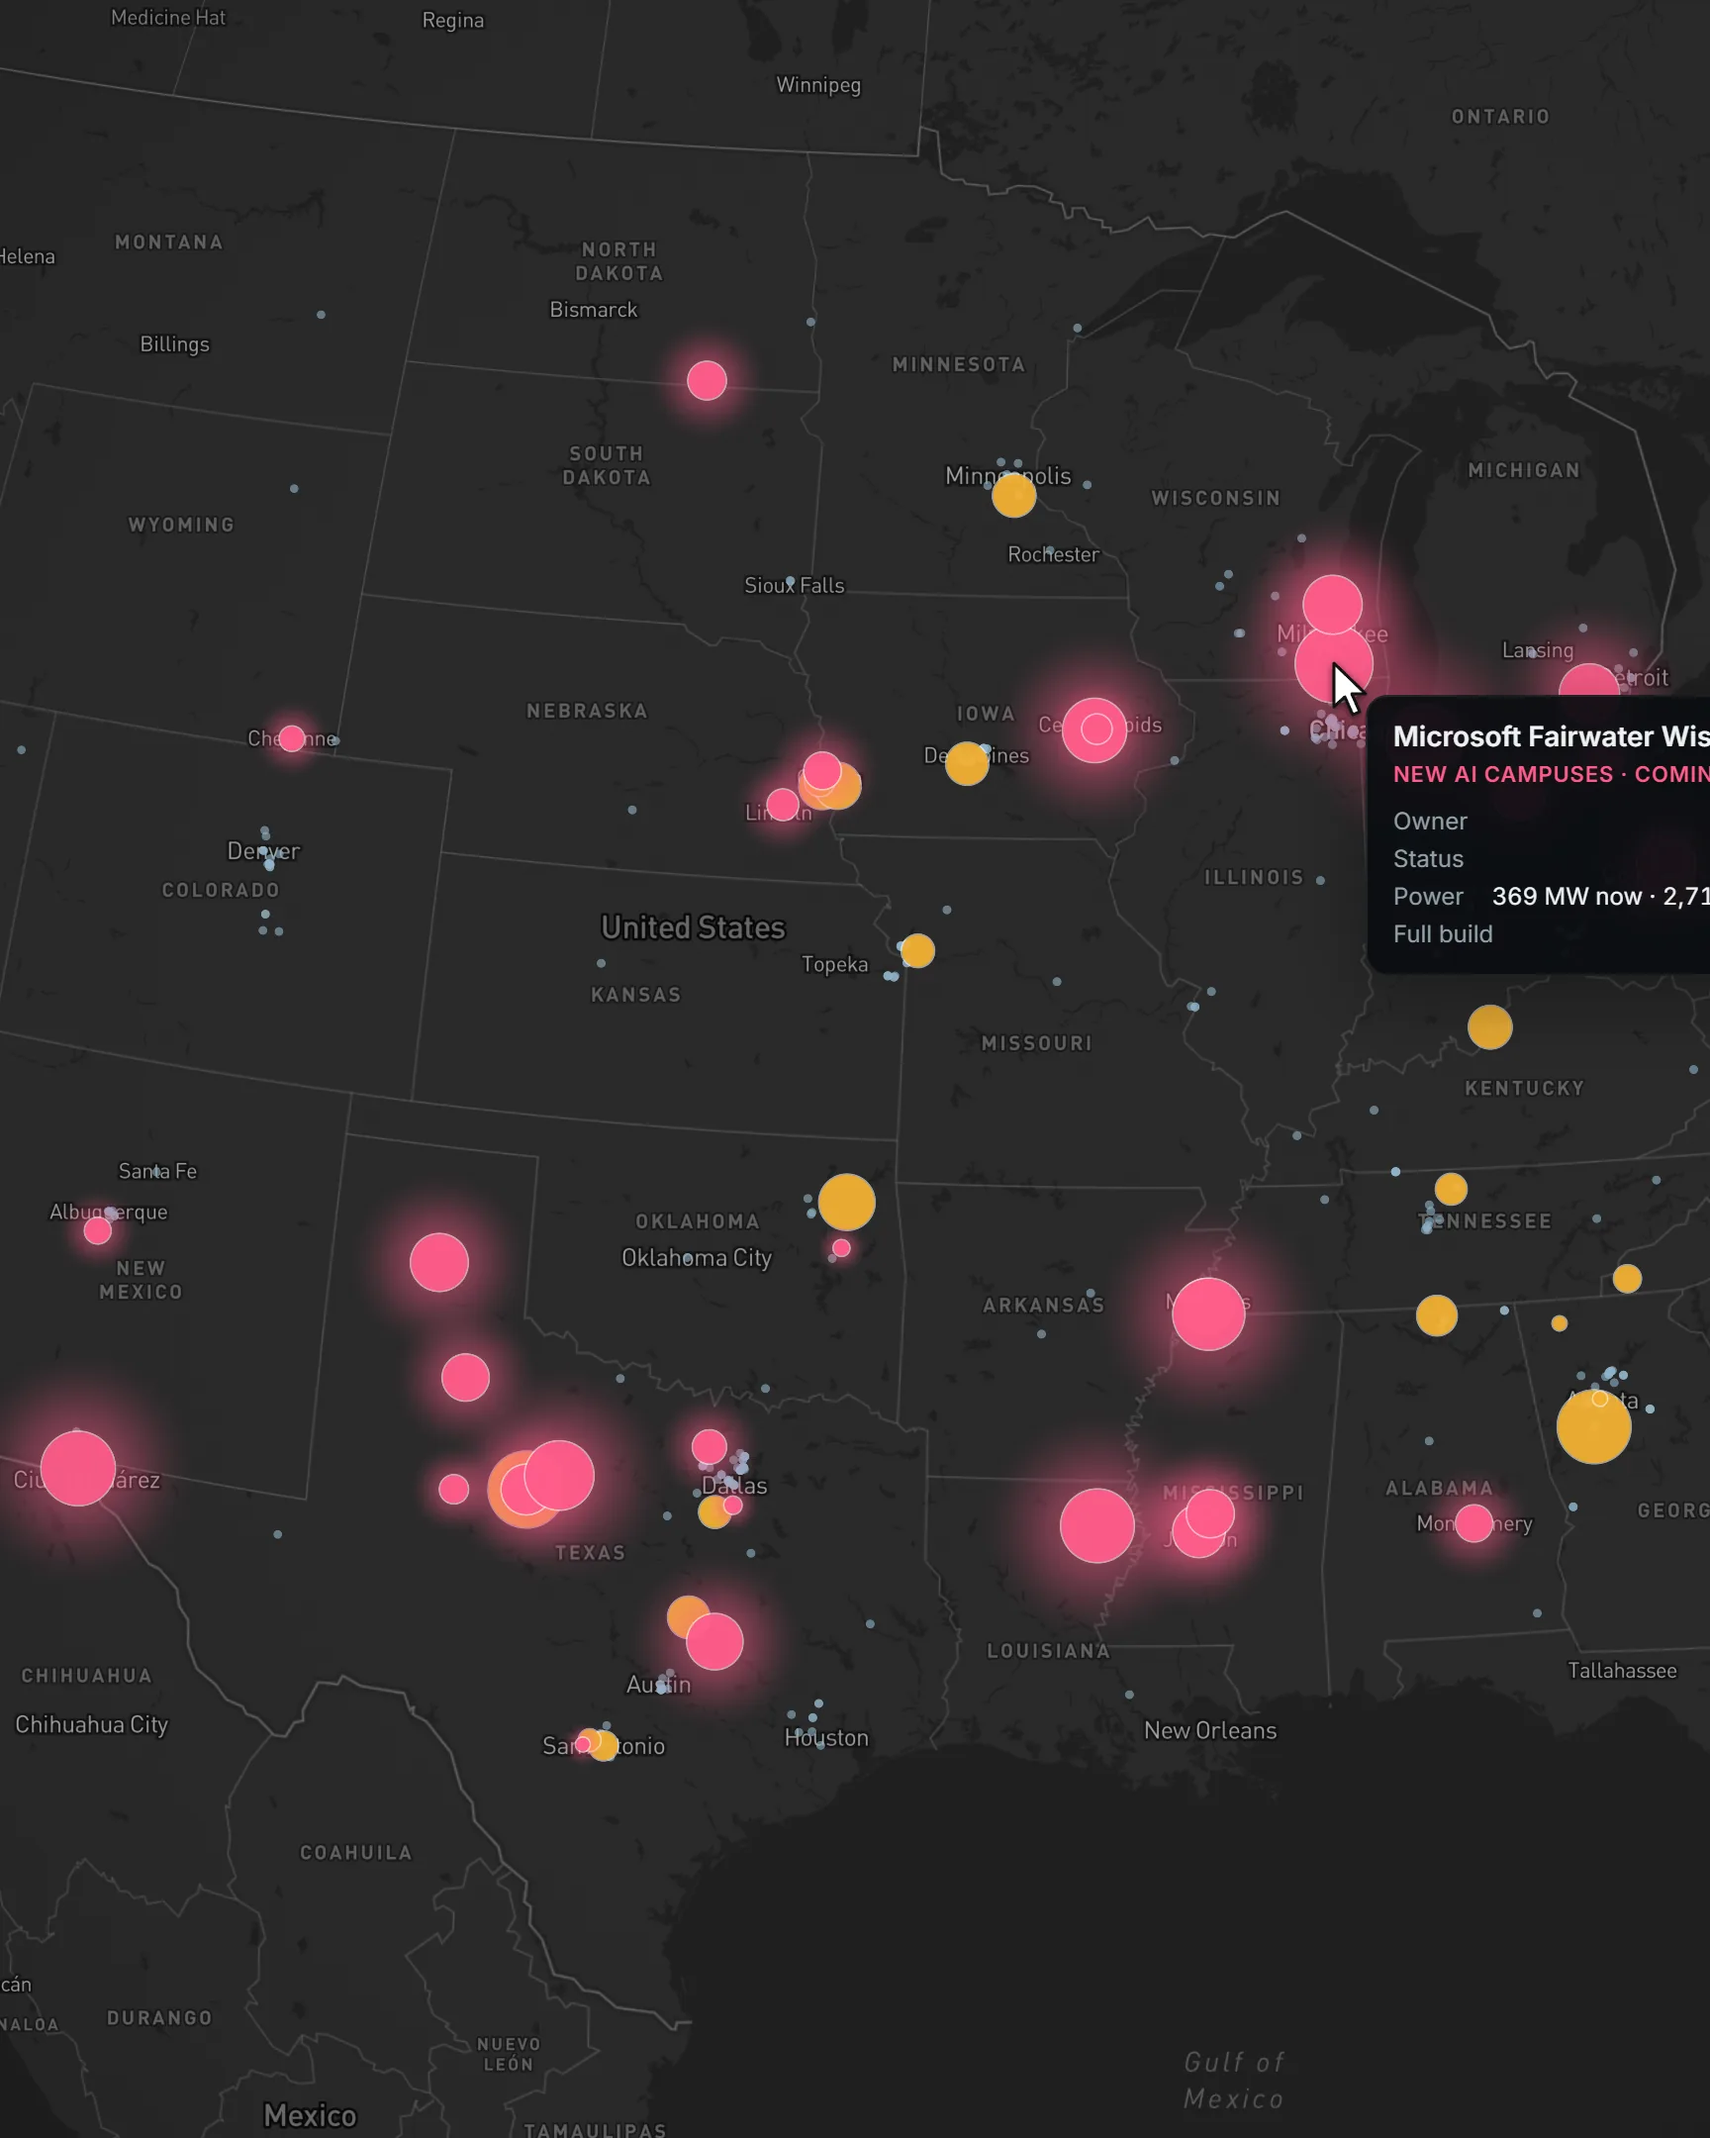
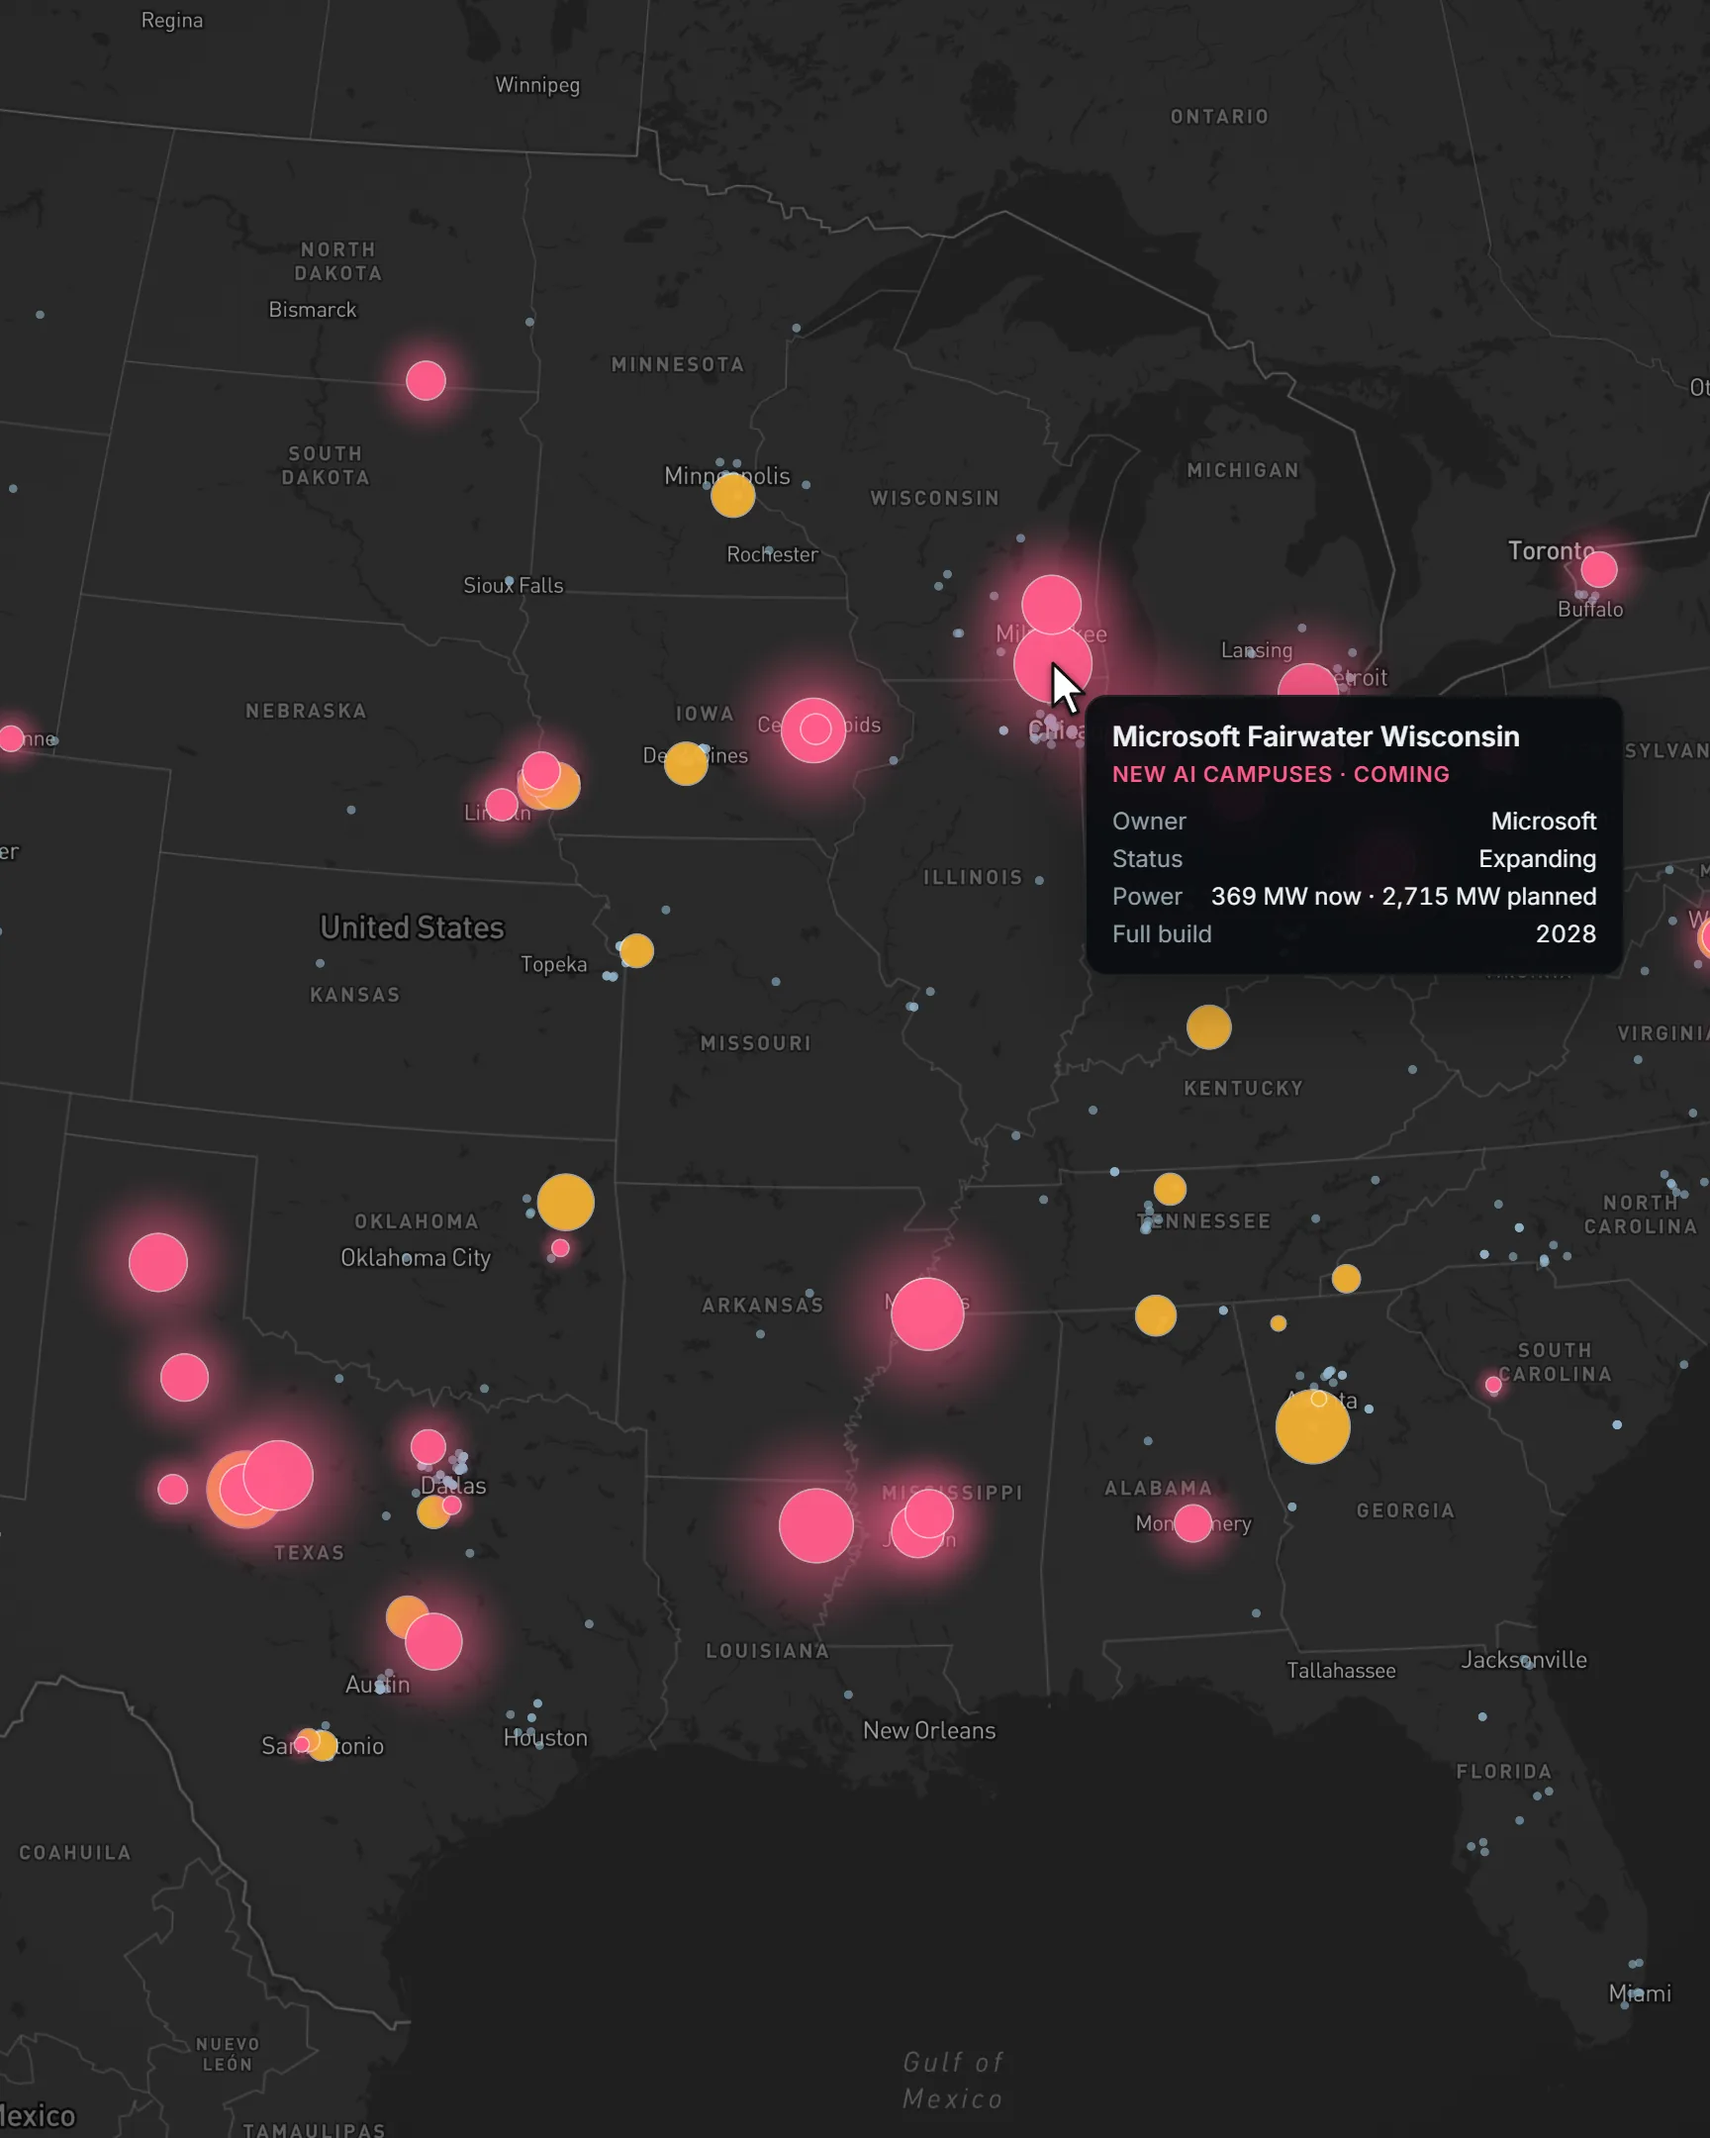
Cloud card: the crop keeps the whole open callout

diff --git a/tools/prepare_media.py b/tools/prepare_media.py
@@ -155,7 +155,7 @@ MANIFEST = {
         # hero: a 13 s recording from the live day01 map (scratch cloud_record2.py): a cursor rests on a pink, a yellow and a
         # blue dot so each one's card opens; card: the pink campus with its card open, at 2x, centre 4:5; lead: What AI Drinks
         vid(CLOUD / "hero_master.mp4", "hero.mp4", poster_t=0.0),
-        img(CLOUD / "still_card.png", "card.webp", CARD, box=(1056, 0, 2784, 2160)),
+        img(CLOUD / "still_card.png", "card.webp", CARD, box=(1340, 0, 3068, 2160)),   # the cursor, the dot and its whole card
         img(TEMP / "png_thumbnail/day03_polygons-water-ai.png", "lead.webp", CARD, box=(512, 0, 1312, 1000)),
         img(SHOTS / "day01_points-ai_1600x1000.png", "where-ai-gets-built.webp"),
         img(TEMP / "png_thumbnail/day03_polygons-water-ai.png", "what-ai-drinks.webp"),
